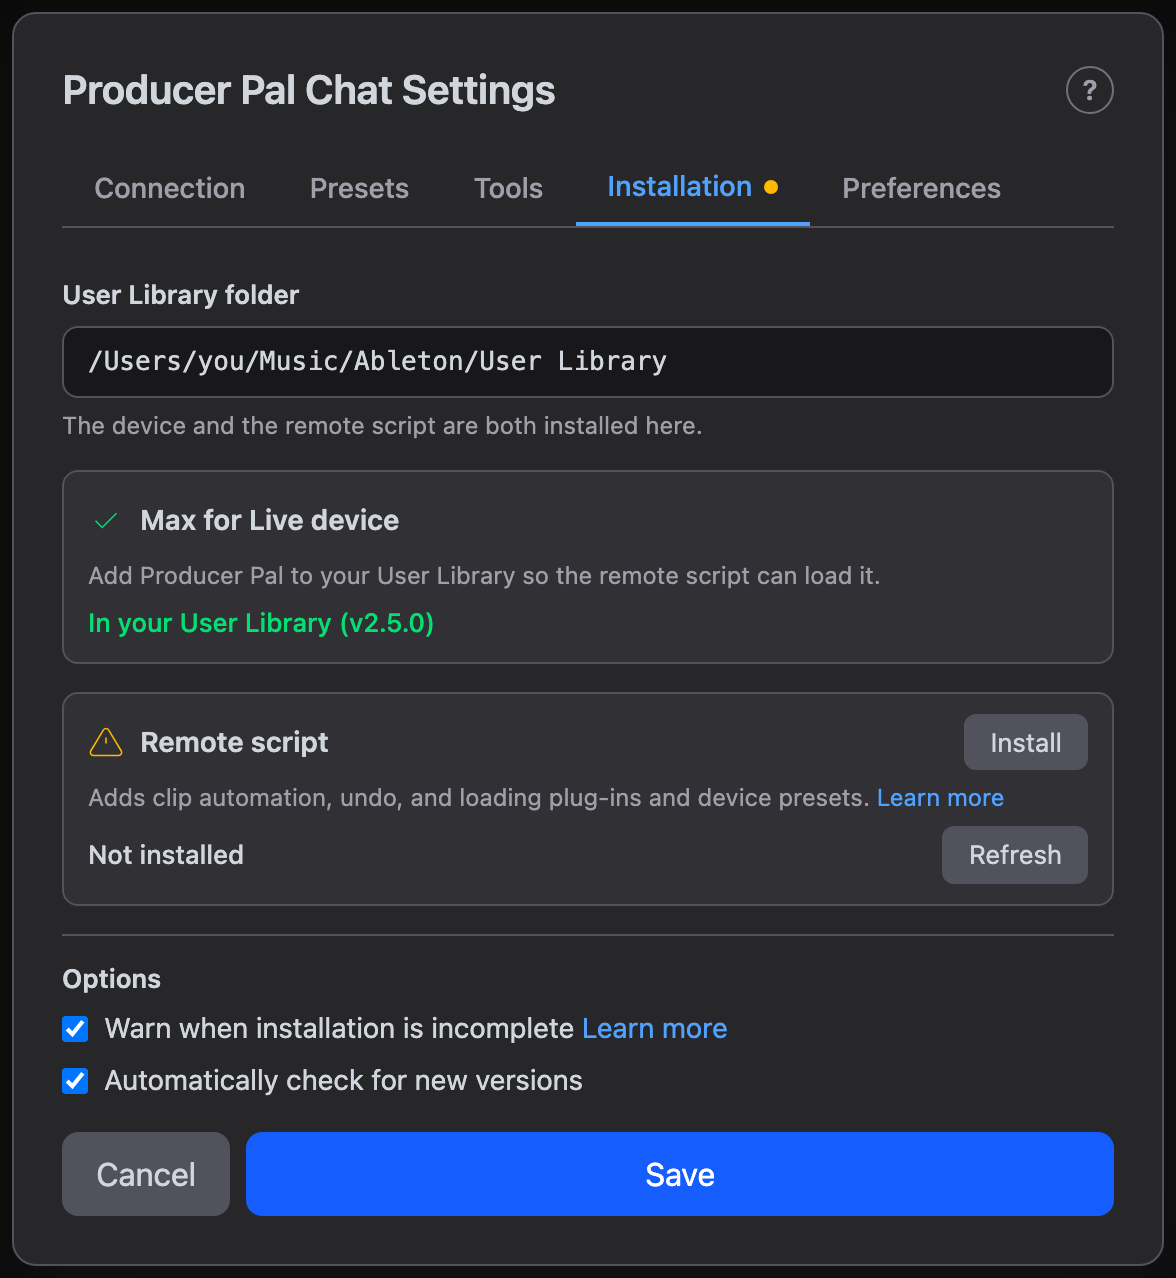
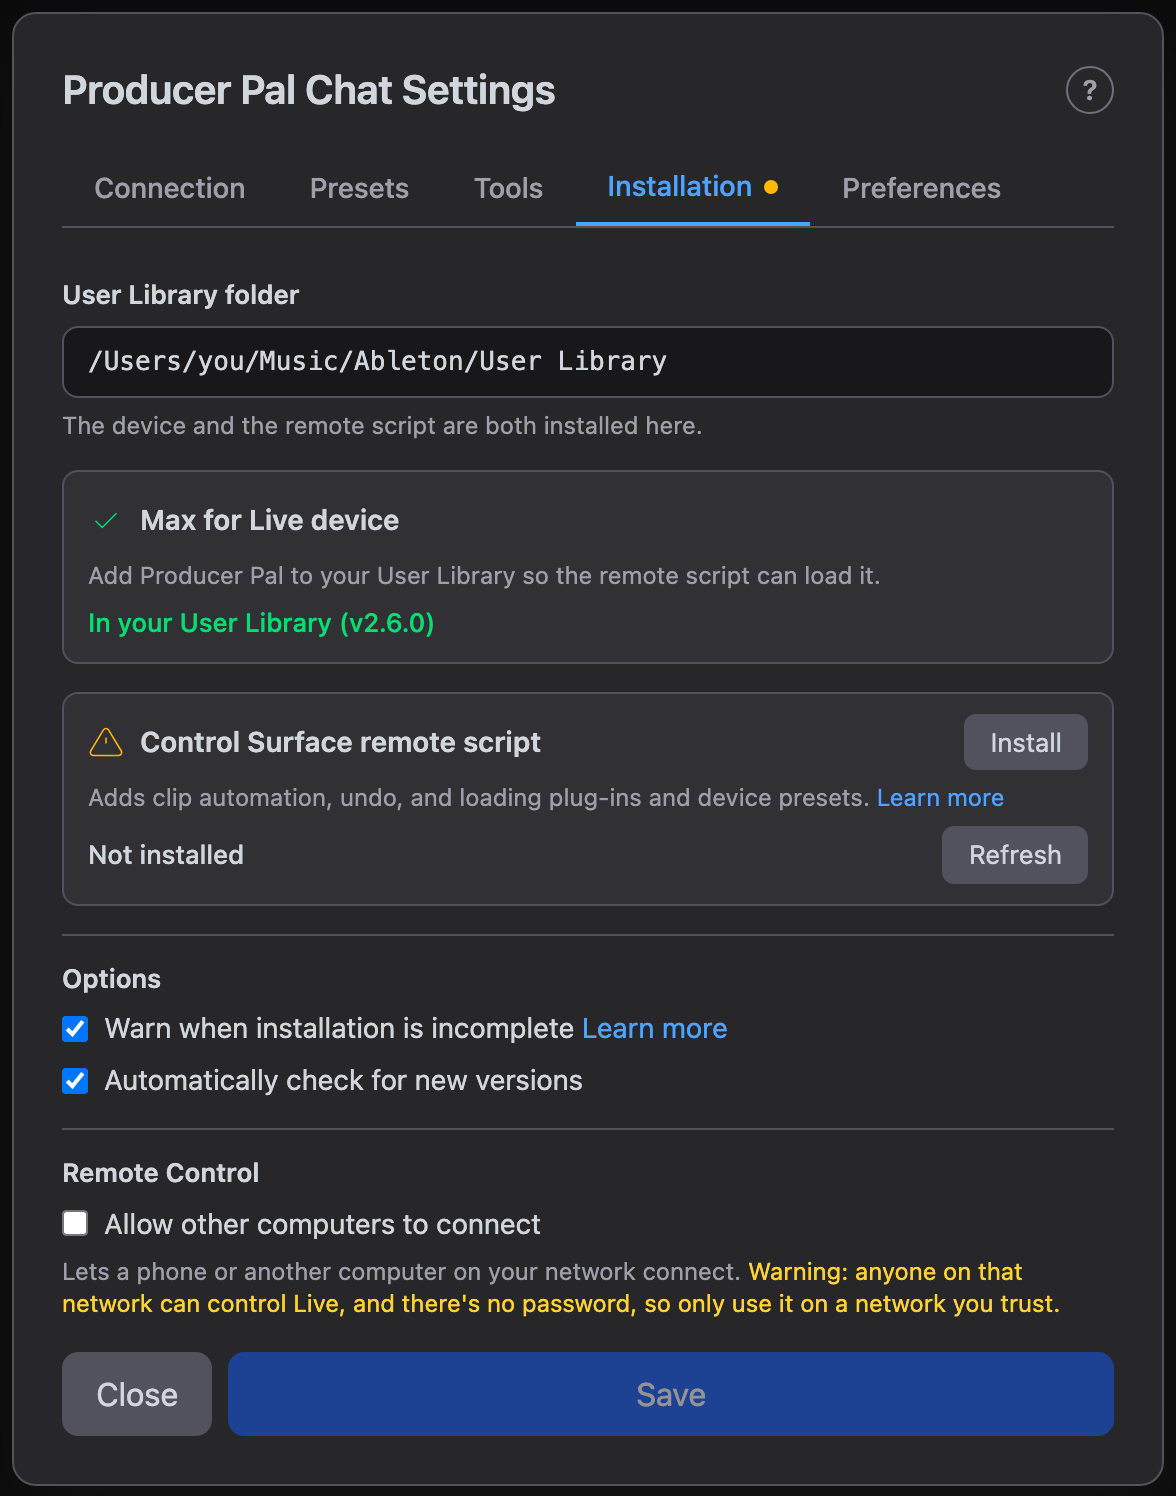
docs: new Installation tab screenshots with the Remote Control section
The four Installation tab screenshots now show the "Control Surface remote
script" heading and the Remote Control setting. The screenshot script drops
a prerelease suffix from the version, since the docs go live with the
release.

diff --git a/e2e/ui/settings/docs-screenshots/screenshot-setup.ts b/e2e/ui/settings/docs-screenshots/screenshot-setup.ts
@@ -18,11 +18,12 @@ export const OUT_DIR = new URL("../../../../docs/public/img/", import.meta.url)
 const USER_LIBRARY = "/Users/you/Music/Ableton/User Library";
 const DEVICE_PATH = `${USER_LIBRARY}/Presets/MIDI Effects/Max MIDI Effect/Producer_Pal.amxd`;
 
+// Without a prerelease suffix: the docs go live with the release.
 export const VERSION = (
   JSON.parse(
     readFileSync(new URL("../../../../package.json", import.meta.url), "utf8"),
   ) as { version: string }
-).version;
+).version.replace(/-.*$/, "");
 
 /** Any 39 characters; the field only ever shows dots. */
 export const FAKE_KEY = "x".repeat(39);
